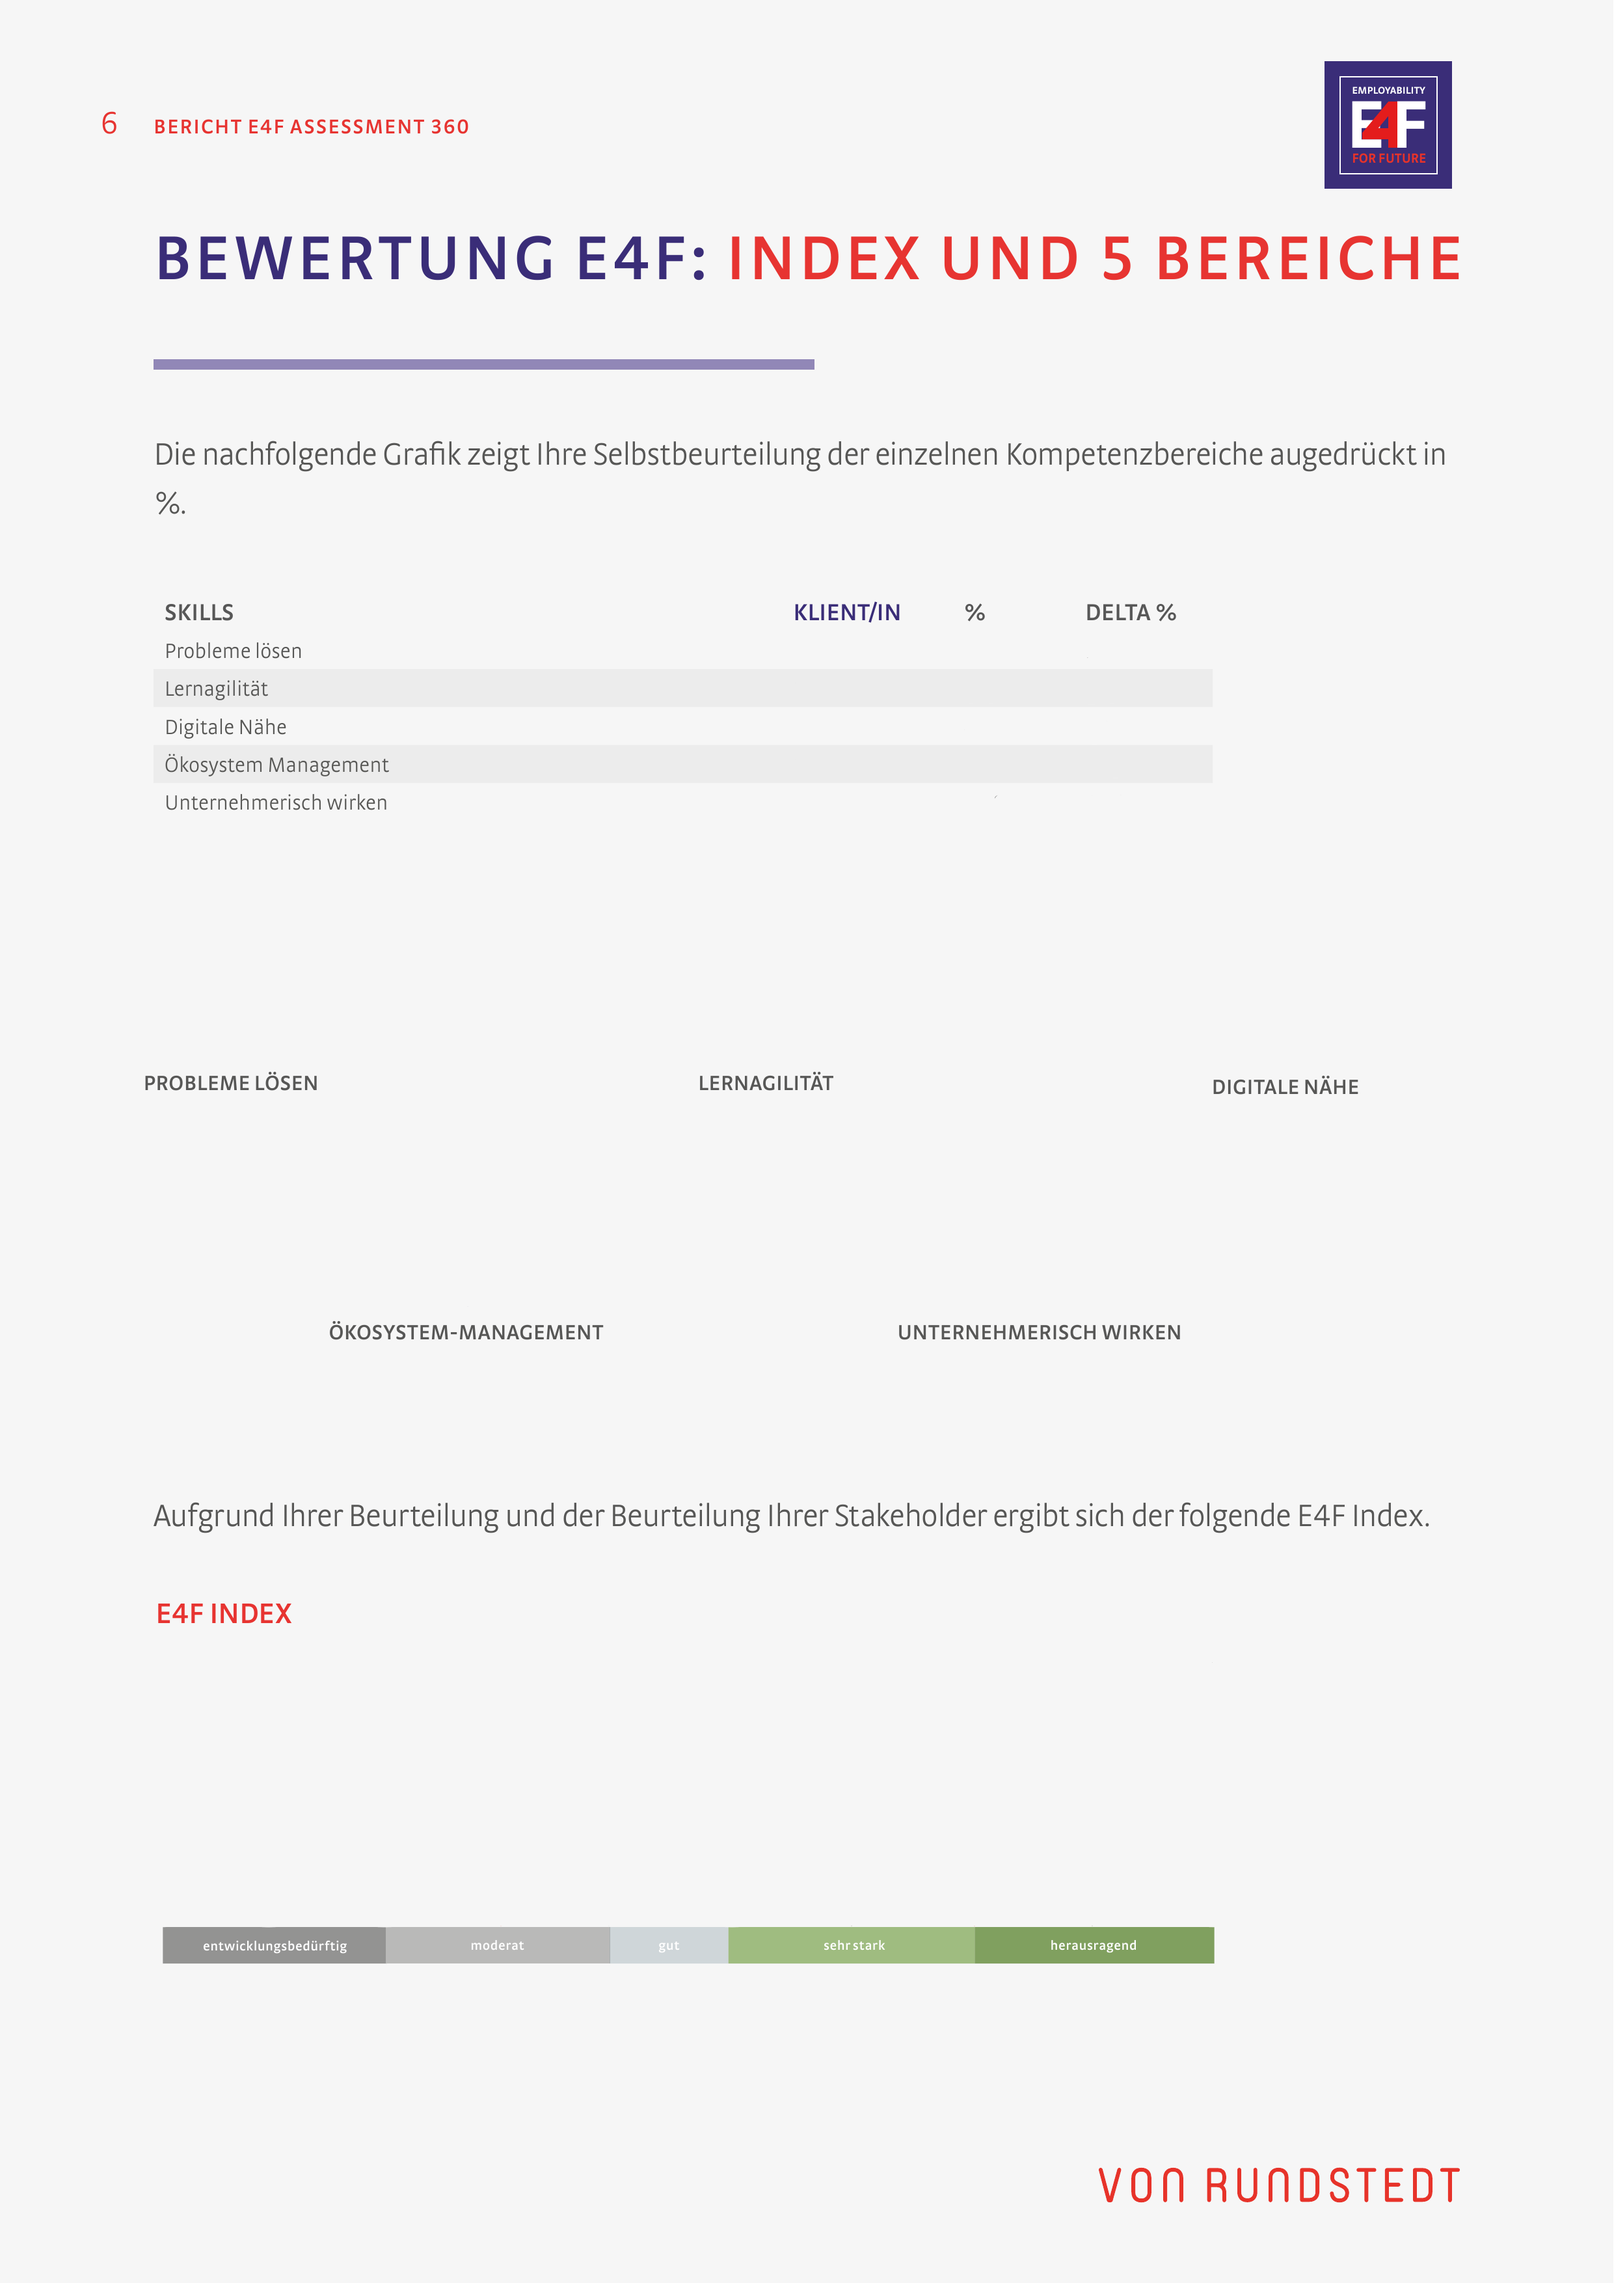
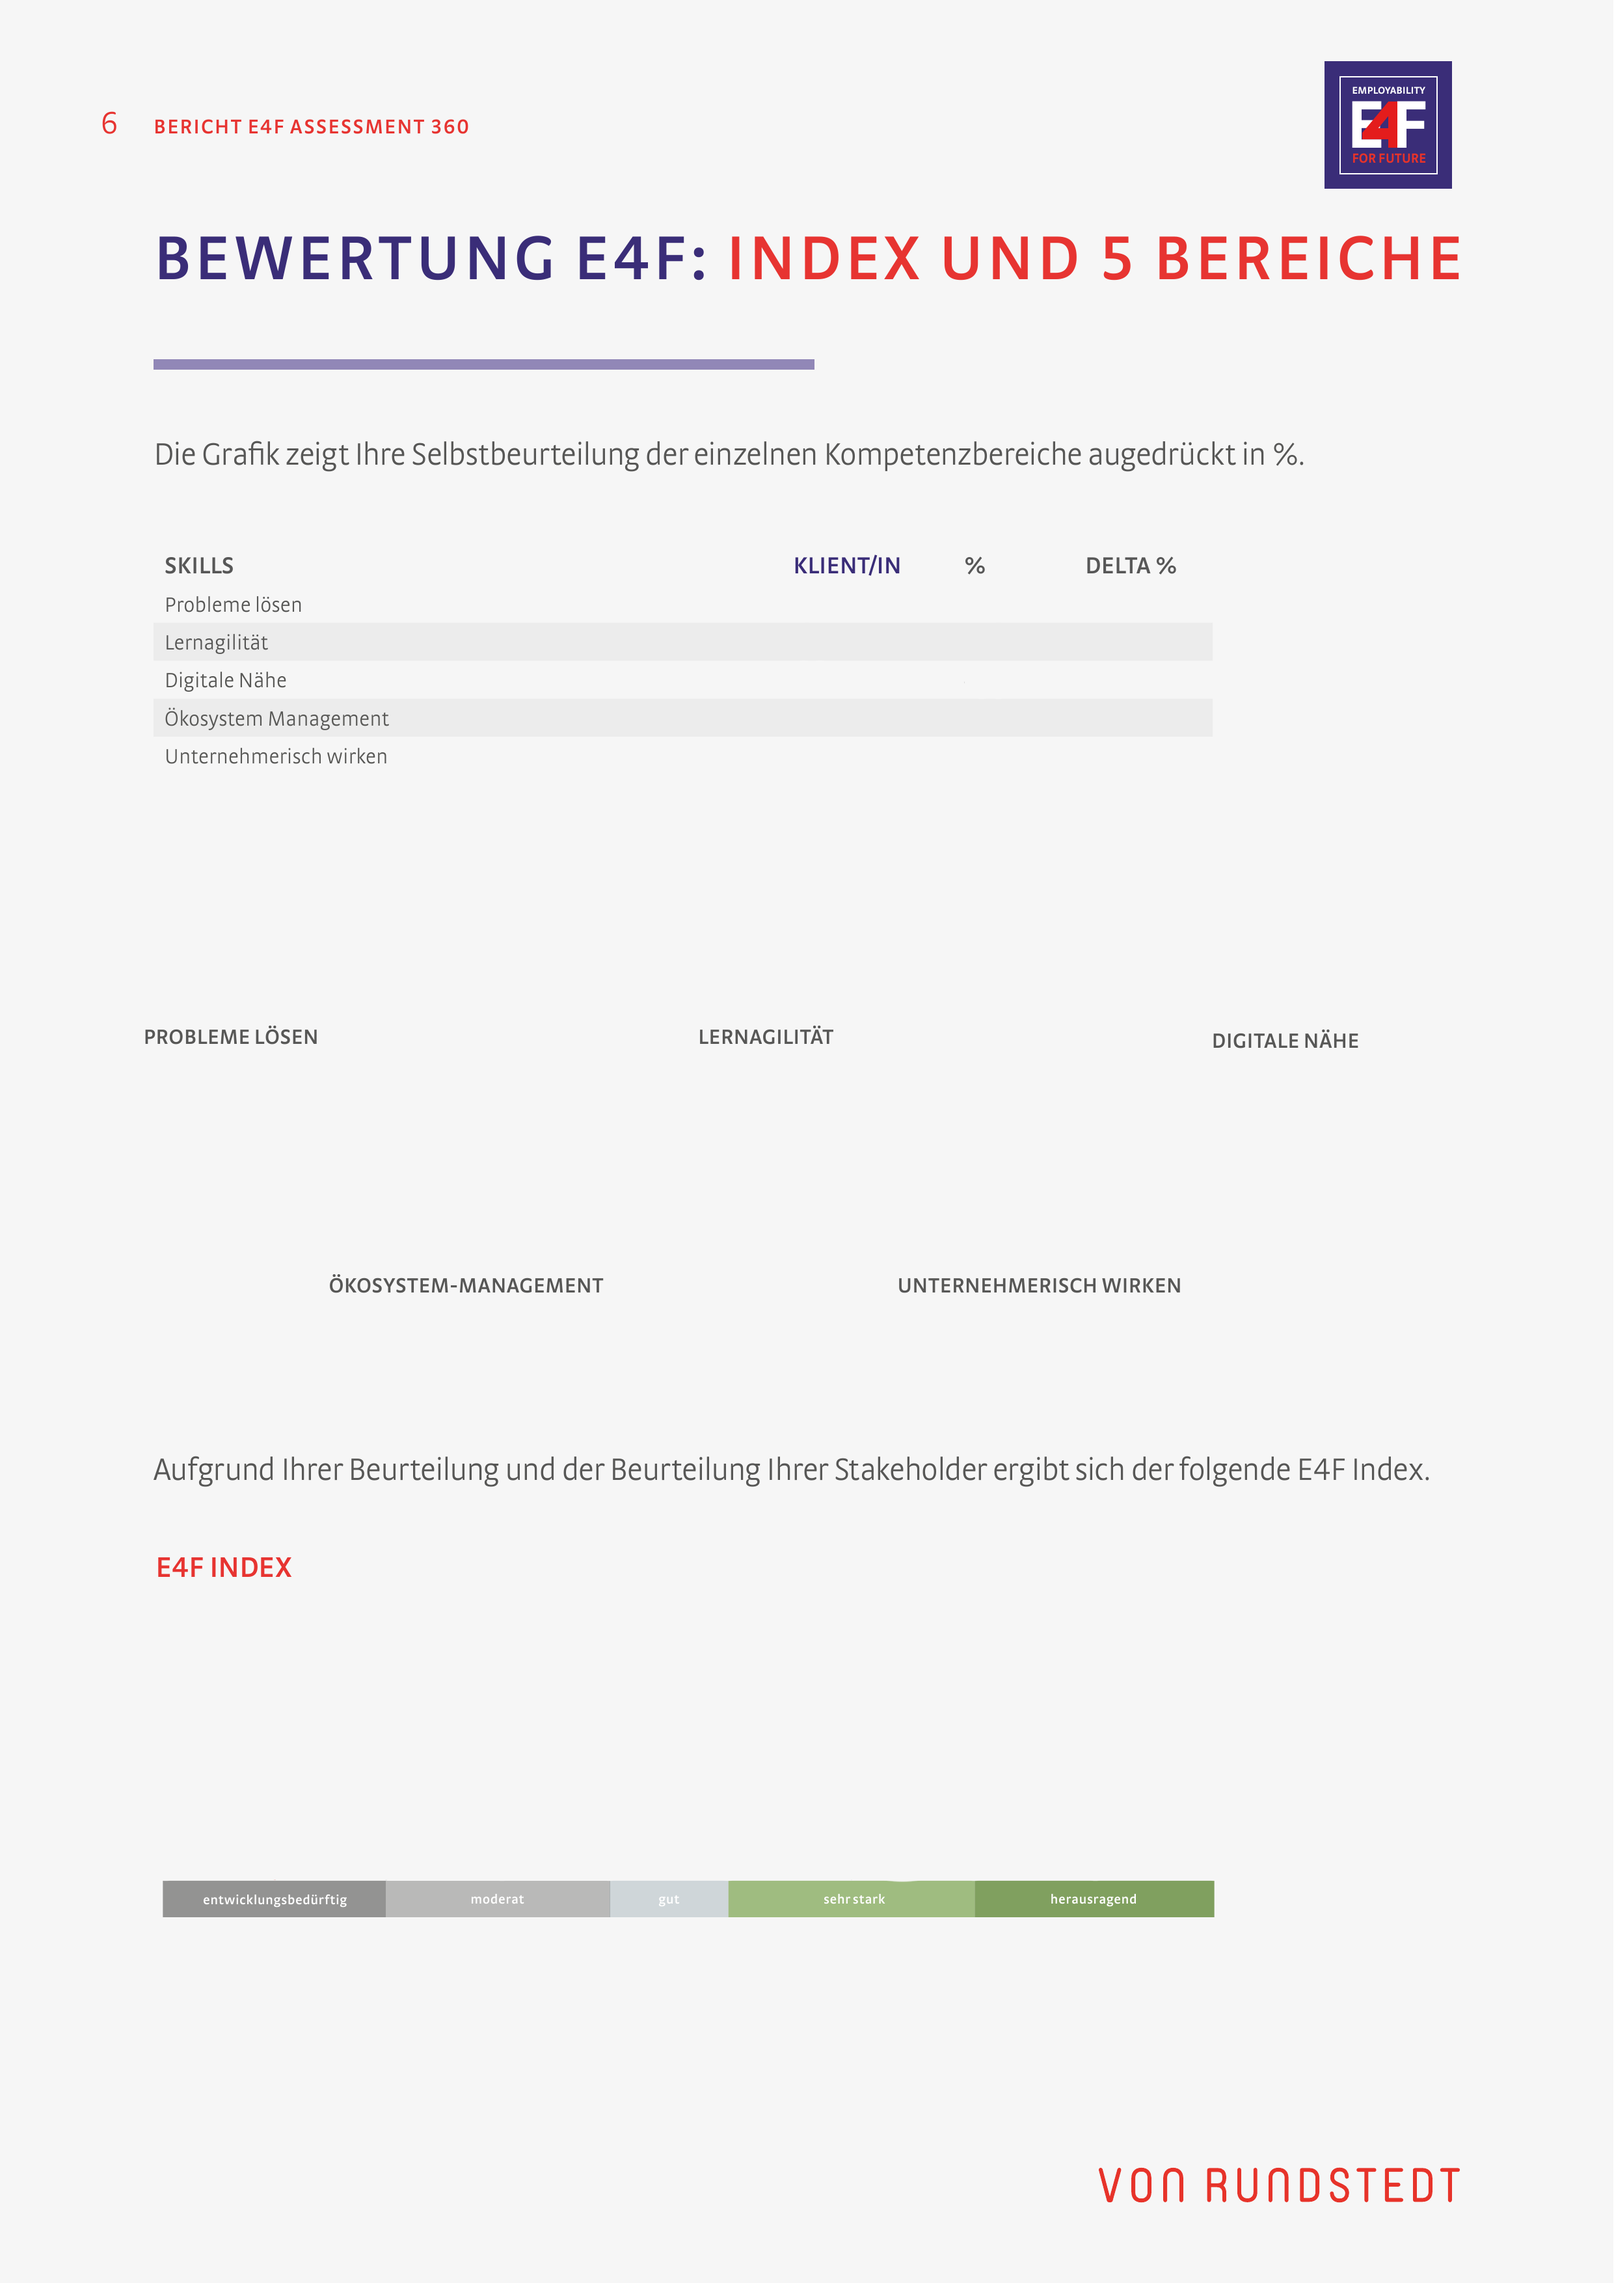
updated Pdf layout for new design

diff --git a/src/pdf/services/build-pdf/pages/page6.service.ts b/src/pdf/services/build-pdf/pages/page6.service.ts
@@ -21,12 +21,12 @@ export class Page6Service {
       klientMap,
       stakeholderMap,
     );
-    doc.image(barChart, 50, 655, { width: 425, height: 60 });
+    doc.image(barChart, 50, 638, { width: 425, height: 60 });
 
     this.enrichMapWithPercentage(klientMap);
     this.enrichMapWithPercentage(stakeholderMap);
 
-    let yPos = 235;
+    let yPos = 218;
     const LINE_HEIGHT = 15;
     const X_POS_RATING = 330;
     const X_POS_PERCENTAGE = 370;
@@ -51,7 +51,7 @@ export class Page6Service {
     doughnut: Record<string, any>,
     klientMap: CompetenceData,
   ) {
-    const Y_POS_FIRST_ROW = 340;
+    const Y_POS_FIRST_ROW = 323;
     const INITIAL_FIRST_ROW_X_POS = 63;
     const FIRST_MARGIN_BETWEEN_DOUGHNUTS = 200;
     const firstRowCompetences = [
@@ -70,7 +70,7 @@ export class Page6Service {
       klientMap,
     );
 
-    const Y_POS_SECOND_ROW = 430;
+    const Y_POS_SECOND_ROW = 413;
     const INITIAL_SECOND_ROW_X_POS = 150;
     const SECOND_MARGIN_BETWEEN_DOUGHNUTS = 220;
     const secondRowCompetences = [

diff --git a/src/pdf/services/build-pdf/pages/page12.service.ts b/src/pdf/services/build-pdf/pages/page12.service.ts
@@ -24,8 +24,8 @@ export class Page12Service {
     console.log(highest, lowest);
     doc.fontSize(11);
     doc.fillColor('#696969');
-    doc.text(highest.kompetenz, 215, 219);
-    doc.text(lowest.kompetenz, 235, 255);
+    doc.text(highest.kompetenz, 240, 219);
+    doc.text(lowest.kompetenz, 240, 237);
   }
 
   findHighestLowestAverageRating(data, language: Language) {

diff --git a/src/pdf/dtos/createPdf.dto.ts b/src/pdf/dtos/createPdf.dto.ts
@@ -42,4 +42,5 @@ export class CreateReportDto {
   @Type(() => StakeholderDto)
   stakeholder: StakeholderDto[];
   language: Language;
+  email: string;
 }
